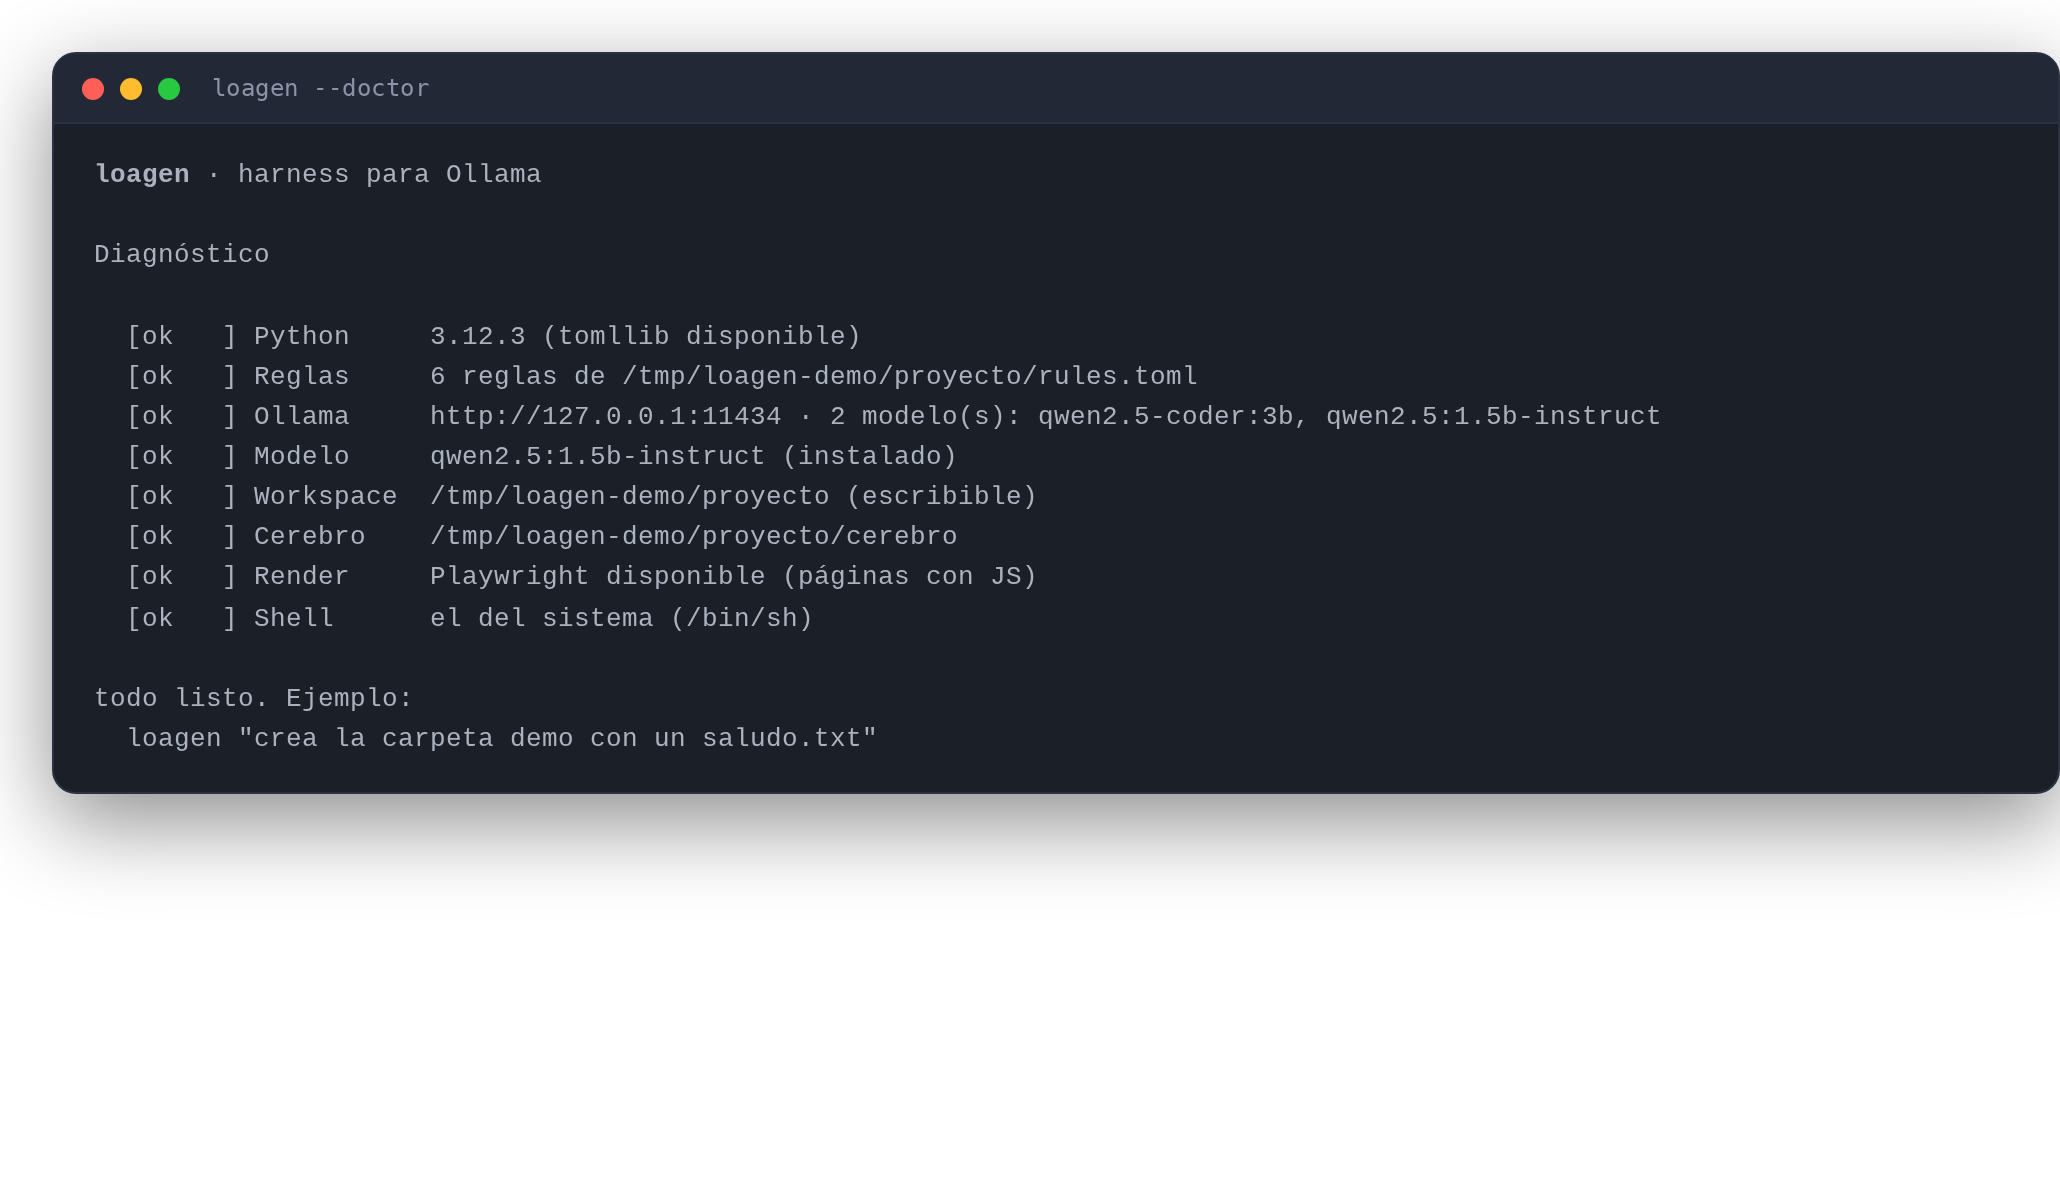
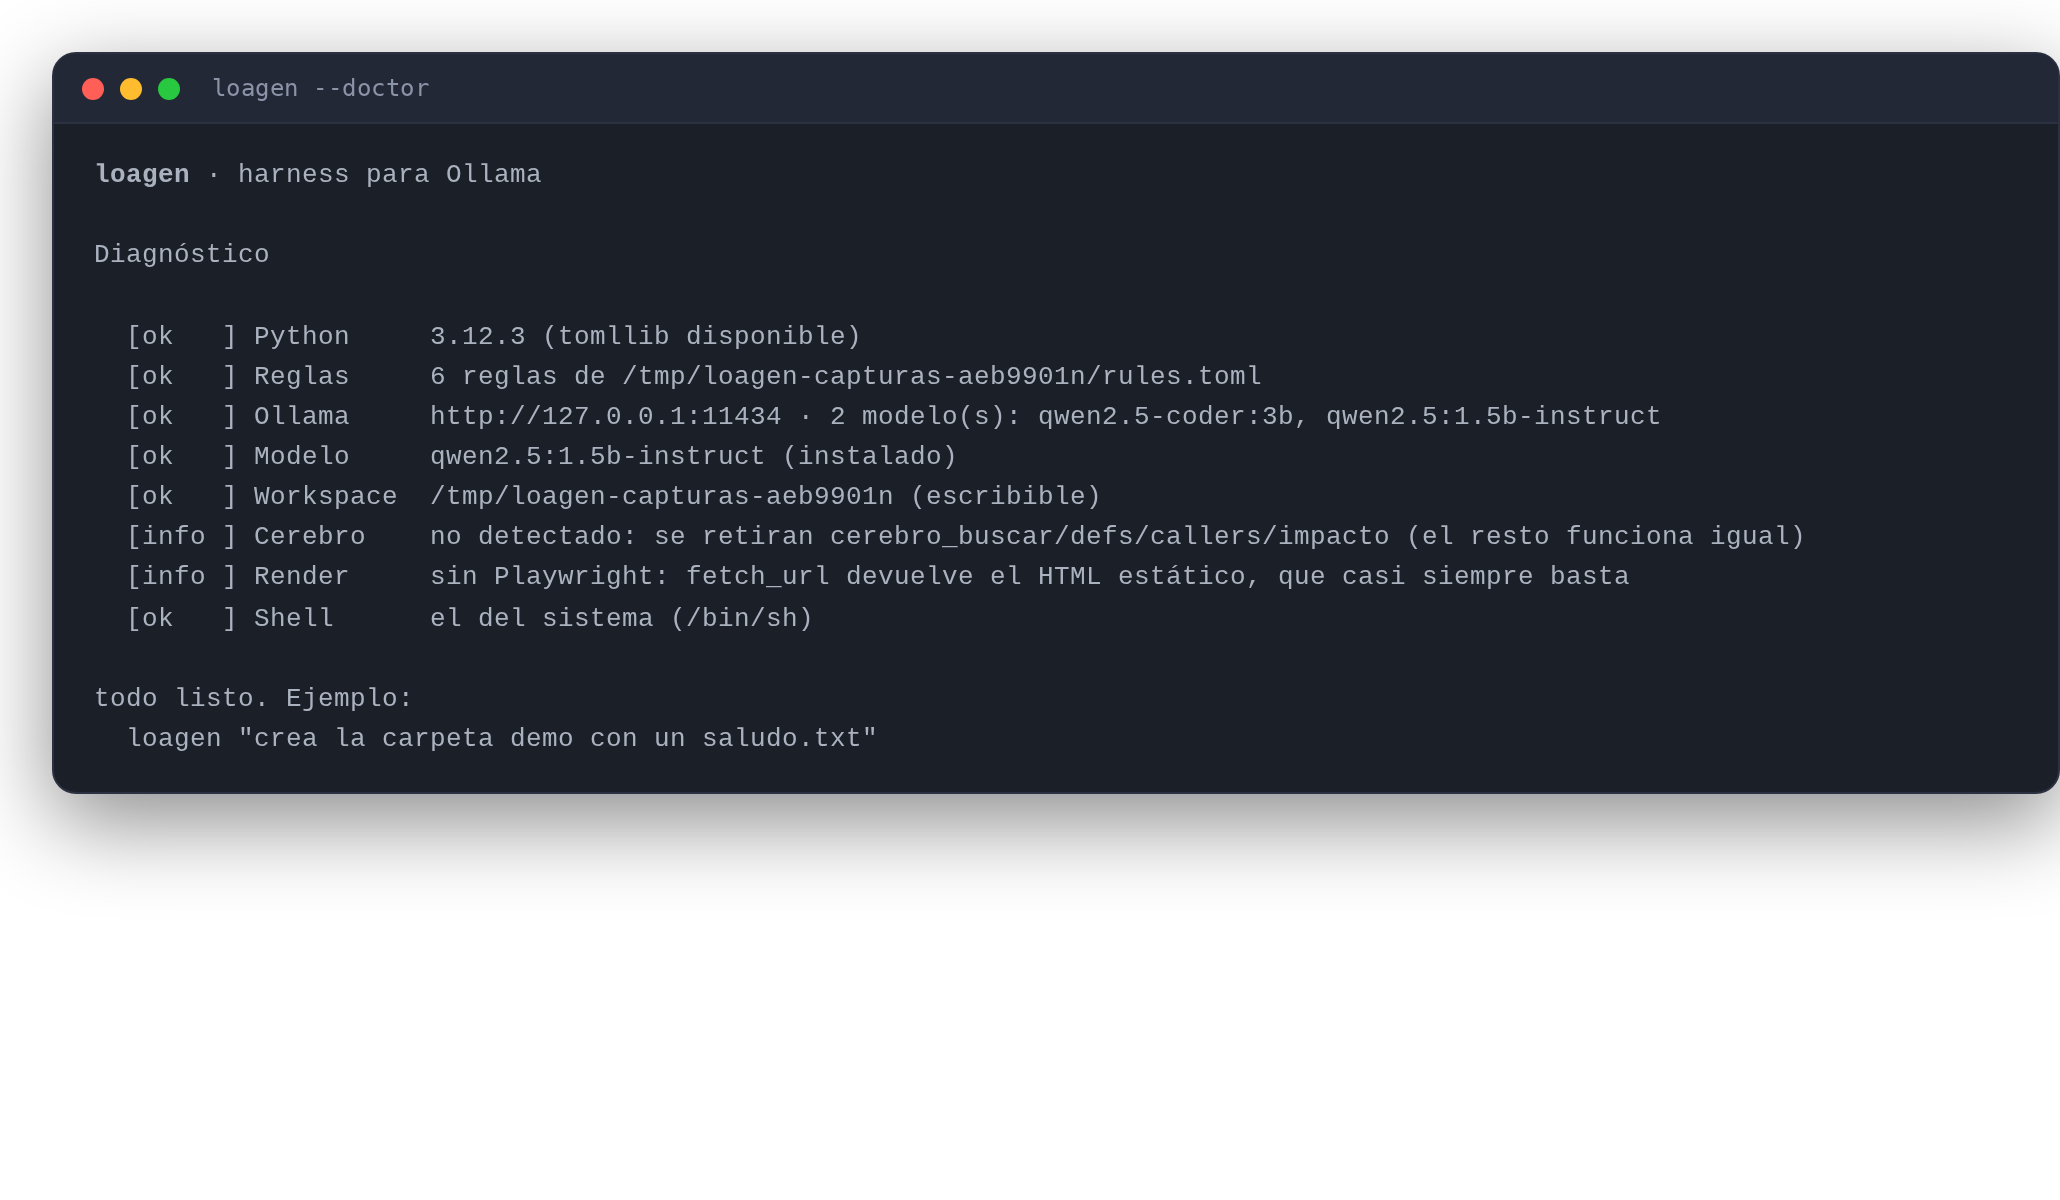
docs: regenera las capturas sin rutas personales
init, doctor, herramientas y tarea se regeneran desde la salida real con el
comando instalado y un workspace en /tmp, así que ya no muestran la ruta del
usuario. La captura de plan no se pudo regenerar (12 intentos) y su salida
incluye la ruta del workspace, así que se retira del README; queda el ejemplo en
texto. De paso se corrigen el default de --plan-max-steps (5, no 6) y el tamaño
del plan del ejemplo.

🤖 Generated with Codebuff

Changed region(s): [[0.2175, 0.4008, 0.8699, 0.4933], [0.4039, 0.3083, 0.6214, 0.3392], [0.0621, 0.4317, 0.0932, 0.4933]]

diff --git a/README.md b/README.md
@@ -174,7 +174,7 @@ python3 agente.py --read-only "explica qué hace este repo"
 | `--init` / `--force` | escribe un `rules.toml` detectado en el workspace (y lo sobrescribe) |
 | `--doctor` | diagnostica el entorno: sale `2` si algo impide ejecutar |
 | `--cerebro-root` | ruta a `cerebro/` (def. autodetectada) |
-| `--plan-max-steps` | máximo de pasos del plan (def. 6) |
+| `--plan-max-steps` | máximo de pasos del plan (def. 5) |
 | `--subagent-model` | modelo de los subagentes (def. el mismo que el principal) |
 | `--subagent-max-steps` | tope de pasos de cada subagente (def. 8) |
 | `--max-output-tokens` | tope de tokens por turno (def. 512); evita que el modelo se enrolle |
@@ -352,16 +352,11 @@ Con `--plan` (o `plan = true` en `rules.toml`), el harness hace **una llamada ex
 dividir la tarea en pasos con dependencias, antes de tocar nada:
 
 ```
-plan (6 pasos)
+plan (3 pasos)
     [1] crear la carpeta calc
     [2] escribir calc.py  (depende de: 1)
     [3] ejecutar el test   (depende de: 2)
 ```
-
-![loagen --plan resolviendo una tarea de varios pasos](docs/capturas/plan.png)
-
-<sub>Salida real: el plan con su dependencia, la herramienta elegida, el `plan_update`
-que marca varios pasos de una vez y la evidencia del harness.</sub>
 
 Qué hace el harness con ese plan:
 
